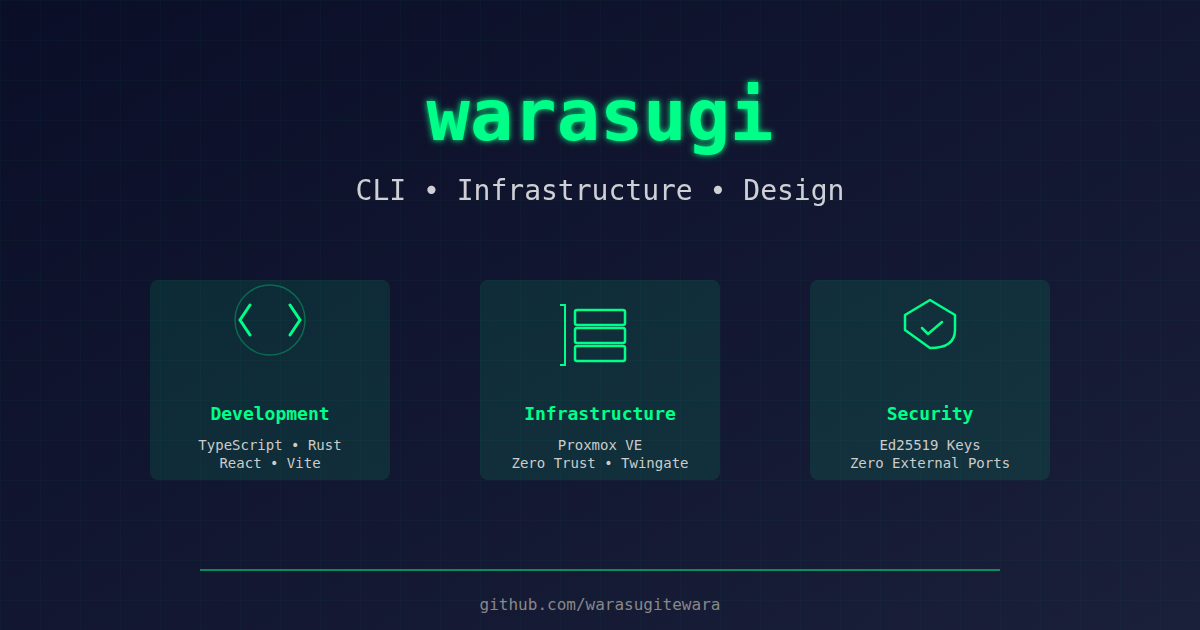
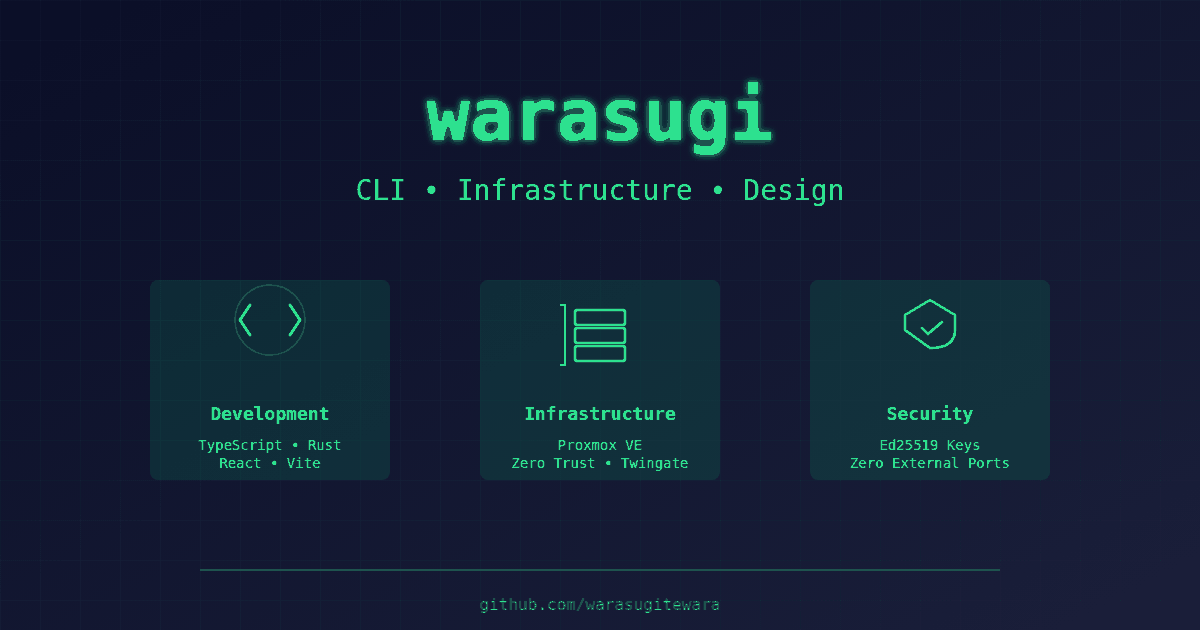
fix: レビュー指摘の軽微な改善を適用
- fix: FeaturedProjects — featured.json に featured キーが無い場合のクラッシュを setProjects(data.featured ?? []) で防止
- fix: FeaturedProjects — デプロイ直後の旧 i18n キャッシュで見出しが空欄になるのを i18n.projects.title へのフォールバックで回避
- refactor: リンクラベル式を1箇所に集約し、既定値を「GitHub →」に。featured.json の重複ラベル8箇所を削除（homelab のカスタムラベルのみ残置）
- fix: React key を表示名から衝突耐性のある複合キーに変更（InfrastructurePage の行 / Hero のスタッツ）
- perf: og-image.png を64色量子化で 280KB → 100KB に圧縮（見た目の劣化なし）。server.ts に max-age=86400 のキャッシュ付き配信ルートを追加
- style: .featured-card / .featured-chip の重複 CSS を .principle-card / .project-language とセレクタ共有化
- docs: README に OG 画像の再生成手順を追記

Claude-Session: https://claude.ai/code/session_01THNMaqoMnTKvujyyXWqjK1

diff --git a/src/components/FeaturedProjects.tsx b/src/components/FeaturedProjects.tsx
@@ -17,7 +17,7 @@ export const FeaturedProjects = ({ i18n, lang }: FeaturedProjectsProps) => {
         const response = await fetch(getDataUrl("featured.json"));
         if (!response.ok) throw new Error(`Failed to load featured: ${response.status}`);
         const data = await response.json();
-        setProjects(data.featured);
+        setProjects(data.featured ?? []);
       } catch (error) {
         console.error("Failed to load featured projects:", error);
       }
@@ -33,48 +33,51 @@ export const FeaturedProjects = ({ i18n, lang }: FeaturedProjectsProps) => {
   return (
     <section id="featured" className="section featured">
       <div className="section-container">
-        <h2 className="section-title">{i18n.projects.featured}</h2>
+        <h2 className="section-title">{i18n.projects.featured ?? i18n.projects.title}</h2>
         <div className="featured-grid">
-          {projects.map((project) => (
-            <article key={project.id} className="featured-card">
-              <h3 className="featured-title">{pick(project.title, project.title_ja)}</h3>
-              <p className="featured-tagline">{pick(project.tagline, project.tagline_ja)}</p>
-              <p className="featured-background">
-                {pick(project.background, project.background_ja)}
-              </p>
-              <ul className="featured-points">
-                {(ja && project.points_ja ? project.points_ja : project.points).map(
-                  (point, idx) => (
-                    <li key={idx}>{point}</li>
-                  ),
-                )}
-              </ul>
-              <div className="featured-footer">
-                <div className="featured-tech">
-                  {project.tech.map((item) => (
-                    <span key={item} className="featured-chip">
-                      {item}
-                    </span>
-                  ))}
+          {projects.map((project) => {
+            const linkLabel = pick(project.link_label ?? "GitHub →", project.link_label_ja);
+            return (
+              <article key={project.id} className="featured-card">
+                <h3 className="featured-title">{pick(project.title, project.title_ja)}</h3>
+                <p className="featured-tagline">{pick(project.tagline, project.tagline_ja)}</p>
+                <p className="featured-background">
+                  {pick(project.background, project.background_ja)}
+                </p>
+                <ul className="featured-points">
+                  {(ja && project.points_ja ? project.points_ja : project.points).map(
+                    (point, idx) => (
+                      <li key={idx}>{point}</li>
+                    ),
+                  )}
+                </ul>
+                <div className="featured-footer">
+                  <div className="featured-tech">
+                    {project.tech.map((item) => (
+                      <span key={item} className="featured-chip">
+                        {item}
+                      </span>
+                    ))}
+                  </div>
+                  {project.link &&
+                    (project.link_internal ? (
+                      <Link to={project.link} className="featured-link">
+                        {linkLabel}
+                      </Link>
+                    ) : (
+                      <a
+                        href={project.link}
+                        target="_blank"
+                        rel="noopener noreferrer"
+                        className="featured-link"
+                      >
+                        {linkLabel}
+                      </a>
+                    ))}
                 </div>
-                {project.link &&
-                  (project.link_internal ? (
-                    <Link to={project.link} className="featured-link">
-                      {pick(project.link_label ?? "", project.link_label_ja)}
-                    </Link>
-                  ) : (
-                    <a
-                      href={project.link}
-                      target="_blank"
-                      rel="noopener noreferrer"
-                      className="featured-link"
-                    >
-                      {pick(project.link_label ?? "", project.link_label_ja)}
-                    </a>
-                  ))}
-              </div>
-            </article>
-          ))}
+              </article>
+            );
+          })}
         </div>
       </div>
     </section>

diff --git a/src/styles/main.css b/src/styles/main.css
@@ -526,7 +526,8 @@ a:hover {
   gap: var(--space-4);
 }
 
-.principle-card {
+.principle-card,
+.featured-card {
   padding: var(--space-5);
   background: var(--color-surface-elev);
   border: 1px solid var(--color-border);
@@ -536,7 +537,8 @@ a:hover {
     box-shadow var(--transition-base);
 }
 
-.principle-card:hover {
+.principle-card:hover,
+.featured-card:hover {
   border-color: var(--color-border-strong);
   transform: translateY(-2px);
   box-shadow: var(--shadow-md);
@@ -563,23 +565,11 @@ a:hover {
   gap: var(--space-4);
 }
 
+/* Card surface/hover shared with .principle-card (see Philosophy section) */
 .featured-card {
   display: flex;
   flex-direction: column;
   gap: var(--space-2);
-  padding: var(--space-5);
-  background: var(--color-surface-elev);
-  border: 1px solid var(--color-border);
-  border-radius: var(--radius-md);
-  box-shadow: var(--shadow-sm);
-  transition: border-color var(--transition-base), transform var(--transition-base),
-    box-shadow var(--transition-base);
-}
-
-.featured-card:hover {
-  border-color: var(--color-border-strong);
-  transform: translateY(-2px);
-  box-shadow: var(--shadow-md);
 }
 
 .featured-title {
@@ -628,12 +618,8 @@ a:hover {
   gap: var(--space-1);
 }
 
+/* Chip surface shared with .project-language (see Projects section) */
 .featured-chip {
-  background: var(--color-chip-bg);
-  border: 1px solid var(--color-border);
-  padding: 0.15rem 0.5rem;
-  border-radius: var(--radius-sm);
-  color: var(--color-neon-green);
   font-size: 0.75rem;
 }
 
@@ -704,7 +690,8 @@ a:hover {
   flex-shrink: 0;
 }
 
-.project-language {
+.project-language,
+.featured-chip {
   background: var(--color-chip-bg);
   border: 1px solid var(--color-border);
   padding: 0.2rem 0.55rem;

diff --git a/server.ts b/server.ts
@@ -22,6 +22,20 @@ app.get('/minecraft-city.png', async (c) => {
   }
 })
 
+// OG card image — fetched by social crawlers on every link unfurl
+app.get('/og-image.png', async (c) => {
+  try {
+    const fileBuffer = await readFile('./dist/og-image.png')
+    c.header('Content-Type', 'image/png')
+    c.header('Cache-Control', 'public, max-age=86400')
+    c.header('Content-Length', fileBuffer.length.toString())
+    return c.body(fileBuffer)
+  } catch (error) {
+    console.error('Error serving og-image.png:', error)
+    return c.notFound()
+  }
+})
+
 // Serve snake SVGs from dist/ (updated by cron git fetch)
 app.get('/github-contribution-grid-snake-dark.svg', async (c) => {
   try {

diff --git a/src/components/Hero.tsx b/src/components/Hero.tsx
@@ -33,7 +33,7 @@ export const Hero = ({ i18n, profile, lang }: HeroProps) => {
           {stats.length > 0 && (
             <div className="hero-stats">
               {stats.map((stat) => (
-                <div key={stat.label} className="hero-stat">
+                <div key={`${stat.value}-${stat.label}`} className="hero-stat">
                   <span className="hero-stat__value">{stat.value}</span>
                   <span className="hero-stat__label">
                     {lang === "ja" && stat.label_ja ? stat.label_ja : stat.label}

diff --git a/src/pages/InfrastructurePage.tsx b/src/pages/InfrastructurePage.tsx
@@ -65,7 +65,7 @@ const renderNodeRows = (colX: number, rows: DgmRow[]) =>
             ? "dgm-row-rect dgm-row-rect--warn"
             : "dgm-row-rect";
     return (
-      <g key={row.name}>
+      <g key={`${row.id}-${row.name}`}>
         <rect x={colX + 10} y={y} width={DGM_COL_W - 20} height={40} rx={3} className={rectClass} />
         <text x={colX + 22} y={y + 17} className="dgm-row-name">
           {row.icon} {row.name}

diff --git a/README.md b/README.md
@@ -76,6 +76,8 @@ npm run dev      # 開発開始
 
 静的な文言・プロフィール・スキル・インフラ情報は `public/data/` の JSON を編集して更新します。UI 文言は `i18n-{ja,en}.json` に **両言語** で追加してください。
 
+**OG カード画像**: SNS クローラーは SVG を描画できないため、`public/og-image.svg`（デザイン原本）を編集したら 1200×630 の PNG に書き出し、256色以下に量子化して `public/og-image.png` を差し替えてください（例: ヘッドレスブラウザでスクリーンショット → Pillow の `quantize(colors=64)`）。
+
 ## 🗒 変更履歴
 
 - **2026-07-15**: 旧ドメイン `wc.f5.si` の参照を完全撤去 — OG / Twitter カードを `portfolio.warasugi.com` + PNG 画像（`og-image.png` を新規生成）に統一、canonical 追加、GitHub Pages 用 SPA リダイレクトスクリプトを削除。X リンクを新アカウント `@WARASUGI7` に更新